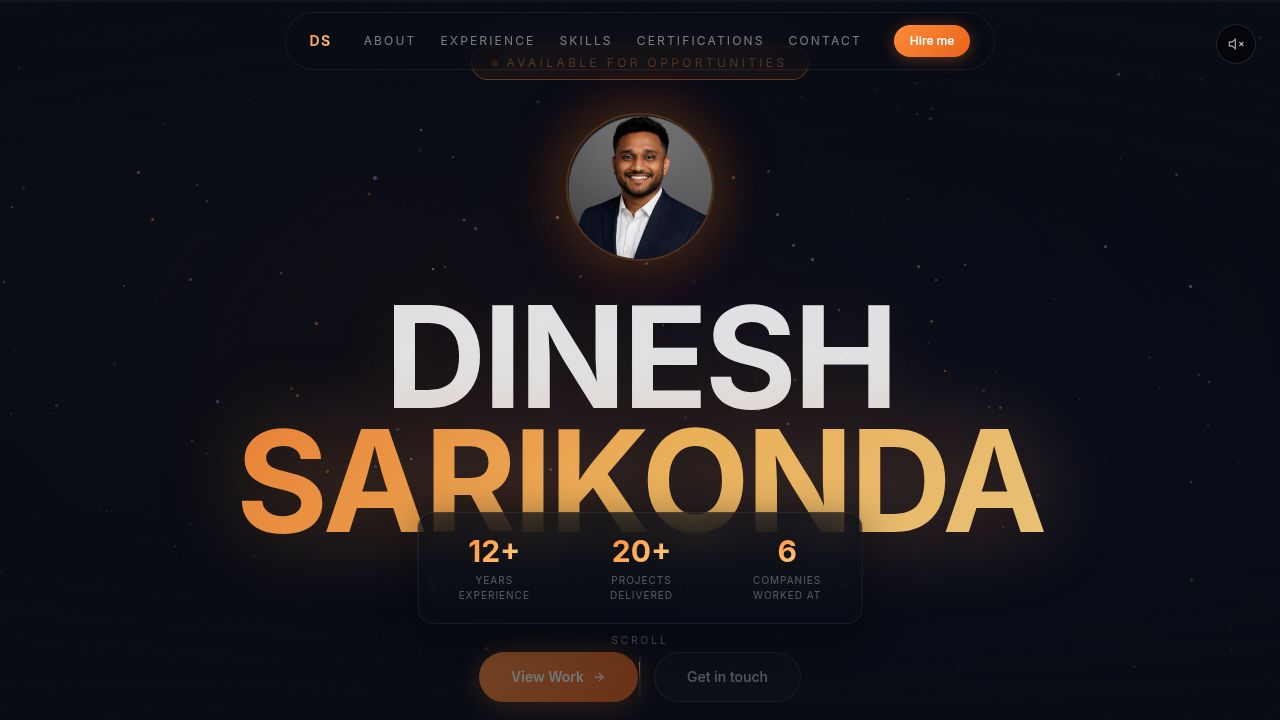
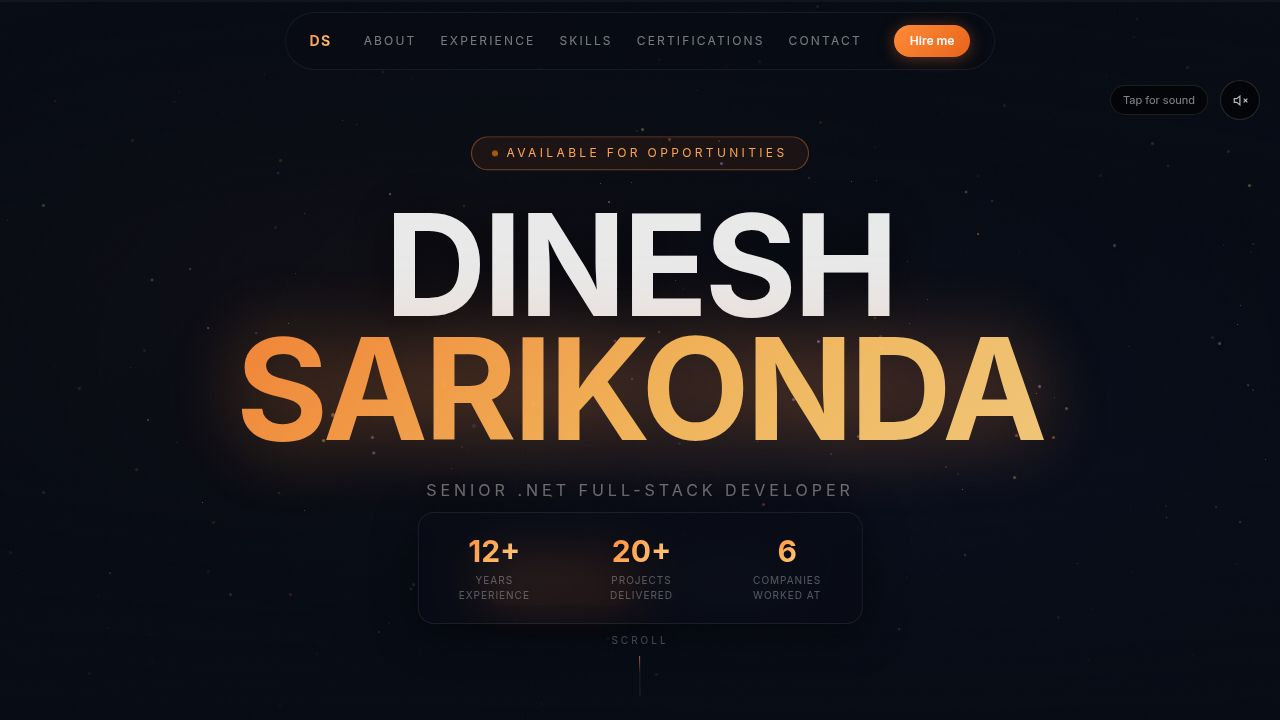
feat: cinematic portfolio v2 - GSAP + Three.js + video hero

diff --git a/src/App.tsx b/src/App.tsx
@@ -1,53 +1,35 @@
-import CinematicLayer  from "./components/CinematicLayer";
-import NoiseOverlay    from "./components/NoiseOverlay";
-import ScrollProgress  from "./components/ScrollProgress";
-import Navbar          from "./components/Navbar";
-import VideoIntro      from "./sections/VideoIntro";
-import Experience      from "./sections/Experience";
-import Skills          from "./sections/Skills";
-import Certifications  from "./sections/Certifications";
-import Contact         from "./sections/Contact";
-
-function Divider() {
-  return (
-    <div className="relative z-20 max-w-5xl mx-auto px-6">
-      <div style={{ height:"1px", background:"linear-gradient(90deg,transparent,rgba(255,255,255,0.06),transparent)" }}/>
-    </div>
-  );
-}
-
-function scrollToExperience() {
-  document.querySelector("#experience")?.scrollIntoView({ behavior: "smooth" });
-}
+import { useRef } from "react";
+import Navbar from "./components/Navbar";
+import CinematicLayer from "./components/CinematicLayer";
+import NoiseOverlay from "./components/NoiseOverlay";
+import ScrollProgress from "./components/ScrollProgress";
+import VideoIntro from "./sections/VideoIntro";
+import Hero from "./sections/Hero";
+import Experience from "./sections/Experience";
+import Skills from "./sections/Skills";
+import Certifications from "./sections/Certifications";
+import Contact from "./sections/Contact";
 
 export default function App() {
+  const experienceRef = useRef<HTMLDivElement>(null);
+
+  const scrollToExperience = () => {
+    experienceRef.current?.scrollIntoView({ behavior: "smooth" });
+  };
+
   return (
-    <div className="relative min-h-screen" style={{ background:"#080C15" }}>
-      {/* Cinematic warm particle layer */}
+    <div className="relative min-h-screen" style={{ background: "#080C15" }}>
       <CinematicLayer />
-
-      {/* Film grain overlay */}
       <NoiseOverlay />
-
-      {/* Scroll progress bar */}
       <ScrollProgress />
-
-      {/* Navigation */}
       <Navbar />
-
-      <main>
-        {/* Fullscreen cinematic hero */}
-        <VideoIntro onScrollDown={scrollToExperience} />
-
-        <Divider />
+      <VideoIntro onScrollDown={scrollToExperience} />
+      <div ref={experienceRef}>
         <Experience />
-        <Divider />
-        <Skills />
-        <Divider />
-        <Certifications />
-        <Divider />
-        <Contact />
-      </main>
+      </div>
+      <Skills />
+      <Certifications />
+      <Contact />
     </div>
   );
 }
